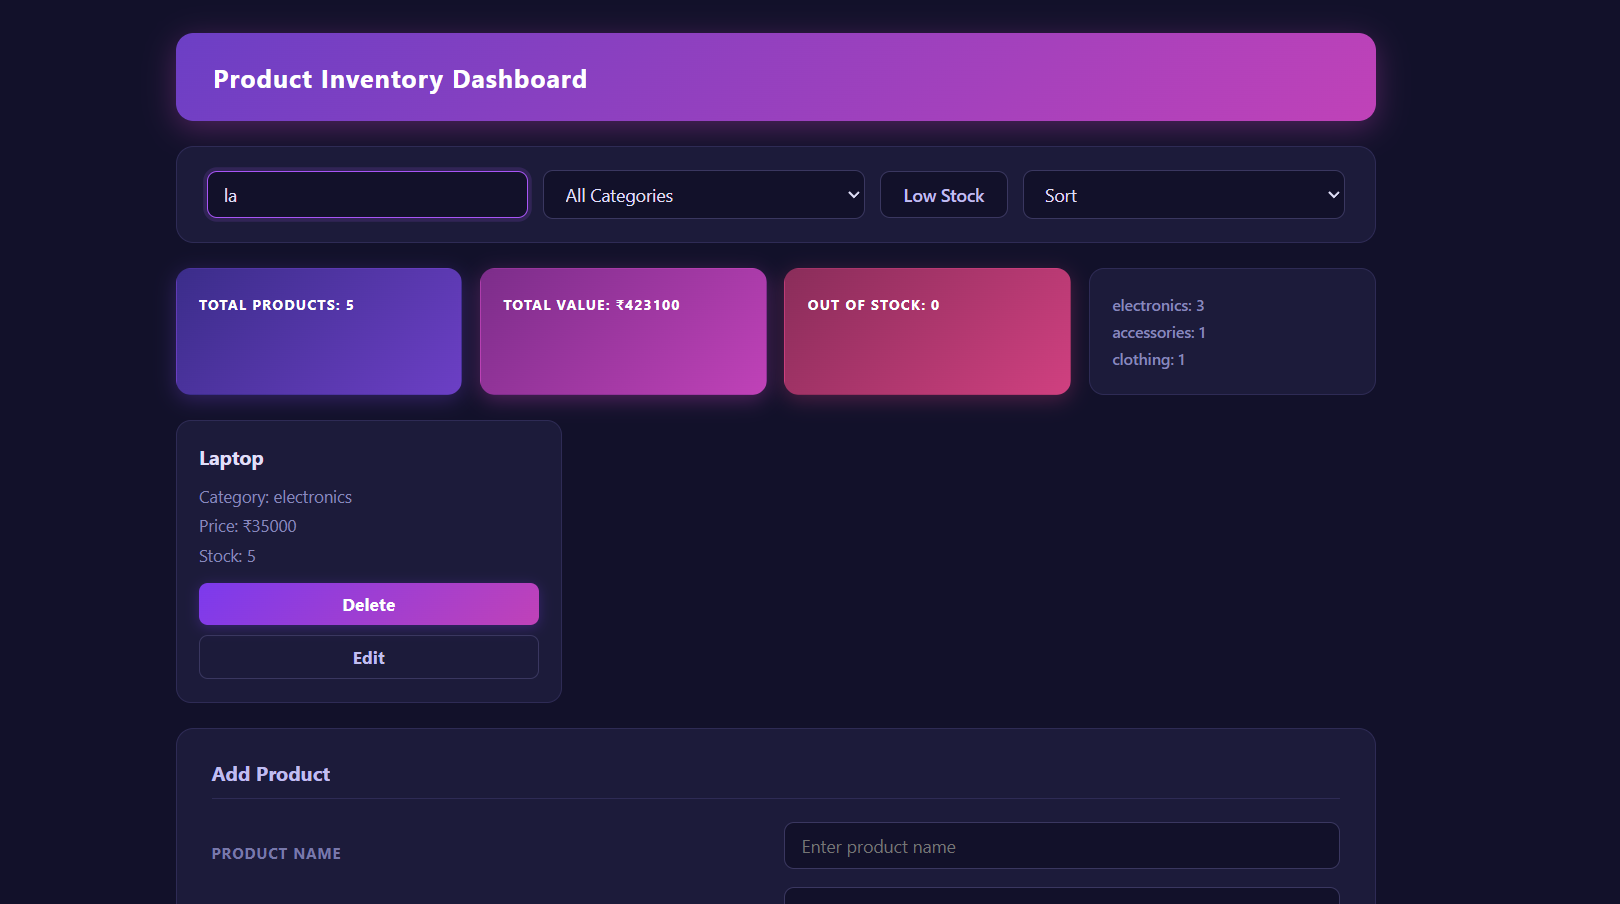
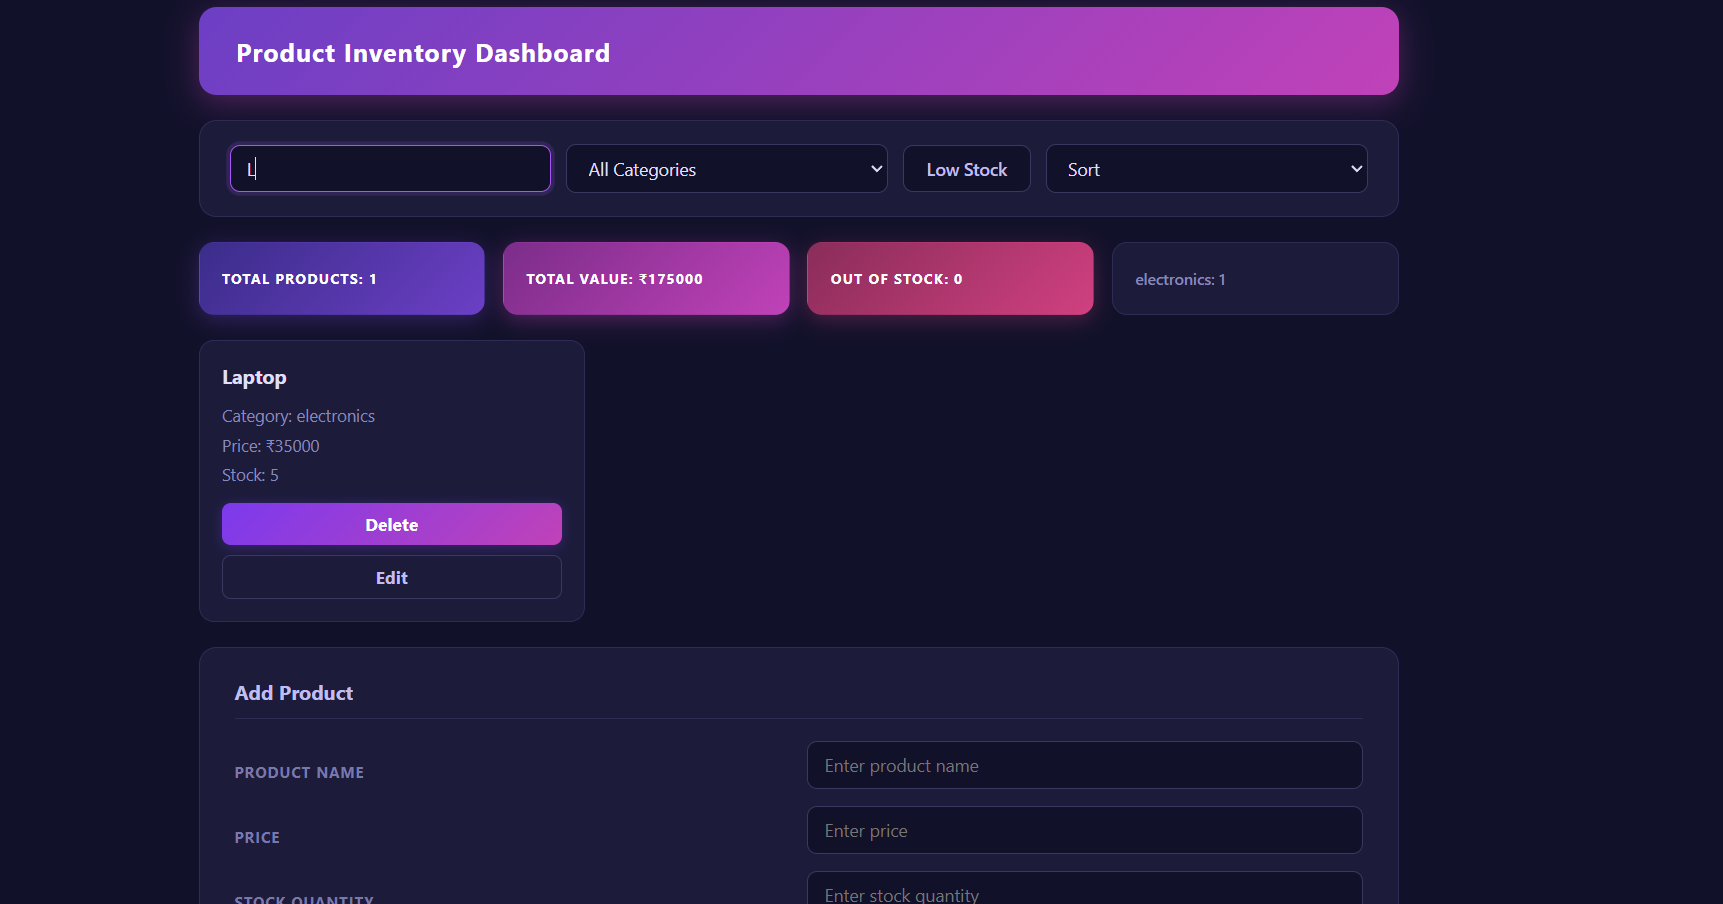
docs: add localStorage data structure and persistence explanation to README

diff --git a/gourav_frontend/mini_app/product_inventory_dashboard/js/script.js b/gourav_frontend/mini_app/product_inventory_dashboard/js/script.js
@@ -1,15 +1,15 @@
 // Try to get products from localStorage If nothing is stored, we will use default data
 let products = JSON.parse(localStorage.getItem("products")) || [
-    { id: 1, name: "Pro Laptop", price: 55000, stock: 5, category: "electronics" },
-    { id: 2, name: "Cotton Shirt", price: 1500, stock: 10, category: "clothing" },
-    { id: 3, name: "JS Guide Book", price: 500, stock: 0, category: "books" },
-    { id: 4, name: "Smart Watch", price: 2000, stock: 3, category: "accessories" },
-    { id: 5, name: "Bluetooth Buds", price: 3000, stock: 12, category: "electronics" },
-    { id: 6, name: "Denim Jeans", price: 2500, stock: 4, category: "clothing" },
-    { id: 7, name: "Data Structures", price: 800, stock: 2, category: "books" },
-    { id: 8, name: "Leather Belt", price: 1200, stock: 15, category: "accessories" },
-    { id: 9, name: "Gaming Mouse", price: 4500, stock: 1, category: "electronics" },
-    { id: 10, name: "Travel Backpack", price: 3500, stock: 0, category: "accessories" }
+  { id: 1, name: "Pro Laptop", price: 55000, stock: 5, category: "electronics" },
+  { id: 2, name: "Cotton Shirt", price: 1500, stock: 10, category: "clothing" },
+  { id: 3, name: "JS Guide Book", price: 500, stock: 0, category: "books" },
+  { id: 4, name: "Smart Watch", price: 2000, stock: 3, category: "accessories" },
+  { id: 5, name: "Bluetooth Buds", price: 3000, stock: 12, category: "electronics" },
+  { id: 6, name: "Denim Jeans", price: 2500, stock: 4, category: "clothing" },
+  { id: 7, name: "Data Structures", price: 800, stock: 2, category: "books" },
+  { id: 8, name: "Leather Belt", price: 1200, stock: 15, category: "accessories" },
+  { id: 9, name: "Gaming Mouse", price: 4500, stock: 1, category: "electronics" },
+  { id: 10, name: "Travel Backpack", price: 3500, stock: 0, category: "accessories" }
 ];
 
 // Getting reference of product grid where cards will be shown
@@ -29,8 +29,8 @@ function renderProducts(data) {
     const stockBadge = p.stock === 0
       ? `<span class="badge out-of-stock">Out of Stock</span>`
       : p.stock < 5
-      ? `<span class="badge low-stock">&#9888; Low Stock</span>`
-      : "";
+        ? `<span class="badge low-stock">&#9888; Low Stock</span>`
+        : "";
 
     card.innerHTML = `
       <h3>${p.name} ${stockBadge}</h3>
@@ -70,11 +70,20 @@ window.onload = async function () {
 
 function updateAnalytics() {
   const selectedCategory = categoryFilter ? categoryFilter.value : "all";
+  const query = searchInput ? searchInput.value.toLowerCase() : "";
 
   // Show analytics for selected category only, or all if none selected
-  const data = selectedCategory === "all"
-    ? products
+  let data = selectedCategory === "all"
+    ? [...products]
     : products.filter(p => p.category === selectedCategory);
+
+  if (query) {
+    data = data.filter(p => p.name.toLowerCase().includes(query));
+  }
+
+  if (lowStockBtn && lowStockBtn.classList.contains("active")) {
+    data = data.filter(p => p.stock < 5);
+  }
 
   const total = data.length;
   const value = data.reduce((sum, p) => sum + (p.price * p.stock), 0);
@@ -119,7 +128,7 @@ function saveAndRender() {
   updateAnalytics();
 }
 
-document.getElementById("productForm").addEventListener("submit", function(e) {
+document.getElementById("productForm").addEventListener("submit", function (e) {
   e.preventDefault();
 
   const name = document.getElementById("name").value;
@@ -242,7 +251,7 @@ function createEditModal() {
 
   document.getElementById("saveEditBtn").addEventListener("click", saveEdit);
   document.getElementById("cancelEditBtn").addEventListener("click", closeEditModal);
-  document.getElementById("editModal").addEventListener("click", function(e) {
+  document.getElementById("editModal").addEventListener("click", function (e) {
     if (e.target === this) closeEditModal();
   });
 }

diff --git a/gourav_frontend/mini_app/product_inventory_dashboard/README.MD b/gourav_frontend/mini_app/product_inventory_dashboard/README.MD
@@ -147,5 +147,10 @@ Allows users to update product details using a popup form without leaving the da
 ![Edit Product](./Screenshots/edit.png)
 
 ---
+### localStorage Data  
+Shows how product data is stored in the browser using localStorage.  
+![LocalStorage](./Screenshots/localstorage.png)
+
+---
 
 
